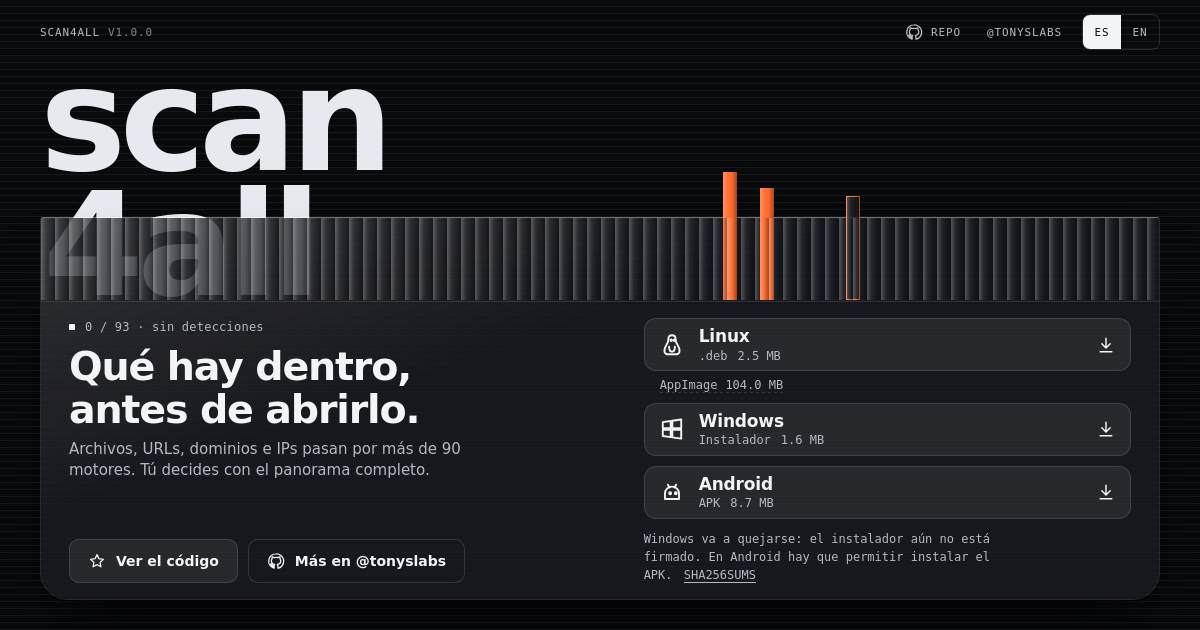
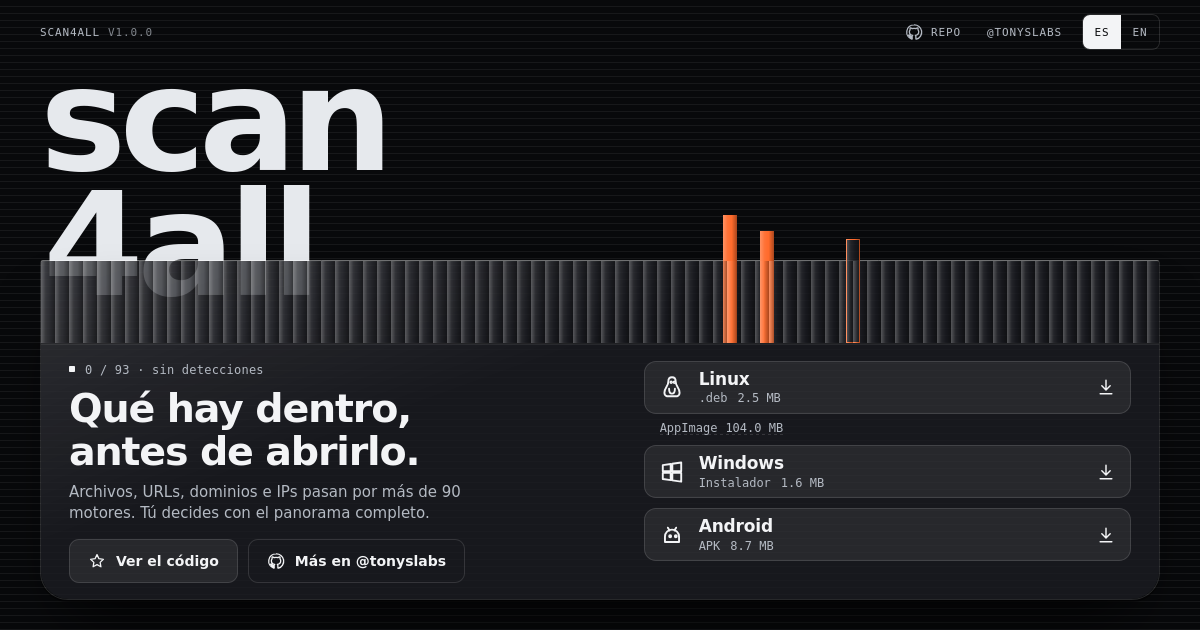
Add

Changed region(s): [[0.0308, 0.4524, 0.9867, 0.9349], [0.0308, 0.2714, 0.9867, 0.4222]]

diff --git a/apps/landing/style.css b/apps/landing/style.css
@@ -99,6 +99,7 @@ button{font:inherit;color:inherit}
 .ribs::after{content:"";position:absolute;inset:0;background:var(--rib) 0 0/14px 100% repeat-x;pointer-events:none}
 /* amenaza: la forma cambia, no solo el color (igual que en la app) */
 .rib{position:absolute;bottom:0;left:var(--x);width:14px;top:calc(var(--h) * -1)}
+.rib.r1{--x:61%;--h:46px}.rib.r2{--x:64.3%;--h:30px}.rib.r3{--x:72%;--h:22px}
 .rib.mal{background:var(--alert)}
 .rib.sus{box-shadow:inset 0 0 0 1.5px var(--alert);background:var(--glass)}
 .rib::after{content:"";position:absolute;inset:0;background:var(--rib)}
@@ -152,8 +153,6 @@ h1{margin-top:10px;font:650 clamp(26px,3.3vw,44px)/1.08 var(--ui);letter-spacing
 .size:empty{display:none}
 .status{margin-top:10px;min-height:1.4em;font:500 12px/1.4 var(--mono);color:var(--ink2)}
 .status:empty{display:none}
-.note{margin-top:10px;font:500 12px/1.5 var(--mono);color:var(--ink2);max-width:52ch}
-.sums{white-space:nowrap;text-decoration:underline;text-underline-offset:3px;margin-left:4px}
 [data-downloads][data-state="loading"] .size{display:inline-block;min-width:3.5em;height:.9em;border-radius:4px;background:var(--edge-soft);animation:pulse 1.2s ease-in-out infinite}
 @keyframes pulse{50%{opacity:.4}}
 

diff --git a/apps/landing/lib.js b/apps/landing/lib.js
@@ -68,12 +68,10 @@ es: Object.freeze({
   "dl.deb": ".deb",
   "dl.windows": "Instalador",
   "dl.android": "APK",
-  "dl.note": "Windows va a quejarse: el instalador aún no está firmado. En Android hay que permitir instalar el APK.",
   "meta.title": "scan4all — Qué hay dentro, antes de abrirlo",
   "meta.desc": "Escáner de archivos, URLs, dominios e IPs con más de 90 motores. Código abierto para Linux, Windows y Android.",
   "nav.label": "Enlaces",
   "lang.label": "Idioma",
-  "dl.soon": "Pronto: el primer release aún no está publicado.",
   "dl.loading": "Buscando la última versión…",
   "dl.error": "No pude leer el release. Usa el enlace a GitHub."
 }),
@@ -92,8 +90,6 @@ en: Object.freeze({
   "dl.deb": ".deb",
   "dl.windows": "Installer",
   "dl.android": "APK",
-  "dl.note": "Windows will complain: the installer isn't signed yet. On Android you'll need to allow the APK install.",
-  "dl.soon": "Soon: the first release isn't published yet.",
   "dl.loading": "Looking for the latest version…",
   "dl.error": "Couldn't read the release. Use the GitHub link."
 })

diff --git a/apps/landing/index.html b/apps/landing/index.html
@@ -59,9 +59,9 @@
   <main class="pane">
     <div class="frost" aria-hidden="true"></div>
     <div class="ribs" aria-hidden="true">
-      <i class="rib mal" style="--x:61%;--h:46px"></i>
-      <i class="rib mal" style="--x:64.3%;--h:30px"></i>
-      <i class="rib sus" style="--x:72%;--h:22px"></i>
+      <i class="rib mal r1"></i>
+      <i class="rib mal r2"></i>
+      <i class="rib sus r3"></i>
       <i class="wave"></i>
     </div>
 
@@ -107,8 +107,6 @@
           </li>
         </ul>
         <p class="status" role="status" data-dl-status></p>
-        <p class="note"><span data-i18n="dl.note">Windows va a quejarse: el instalador aún no está firmado. En Android hay que permitir instalar el APK.</span>
-          <a class="sums" data-asset="checksums" data-state="soon" href="https://github.com/tonyslabs/scan4all-app/releases/latest" rel="noopener">SHA256SUMS</a></p>
       </section>
     </div>
   </main>

diff --git a/apps/landing/app.js b/apps/landing/app.js
@@ -26,7 +26,8 @@ function renderDownloads() {
     node.textContent = release.version;
   });
   document.querySelectorAll('[data-dl-status]').forEach(node => {
-    node.textContent = state === 'ready' ? '' : t(lang, `dl.${state}`);
+    // En 'soon' los botones ya apuntan a la página de releases: no hace falta explicarlo.
+    node.textContent = state === 'ready' || state === 'soon' ? '' : t(lang, `dl.${state}`);
   });
 }
 

diff --git a/README.md b/README.md
@@ -130,7 +130,7 @@ pnpm landing:test
 ```
 
 Parámetros de prueba: `?demo=1` (release simulado), `?demo=loading|soon|error`, `?os=android|linux|windows|none` y `?lang=es|en`.
-Los nombres de archivo del release deben terminar en `.deb`, `.AppImage`, `setup.exe`, `.apk` y `SHA256SUMS`.
+Los nombres de archivo del release deben terminar en `.deb`, `.AppImage`, `setup.exe` y `.apk`.
 
 ## API
 
